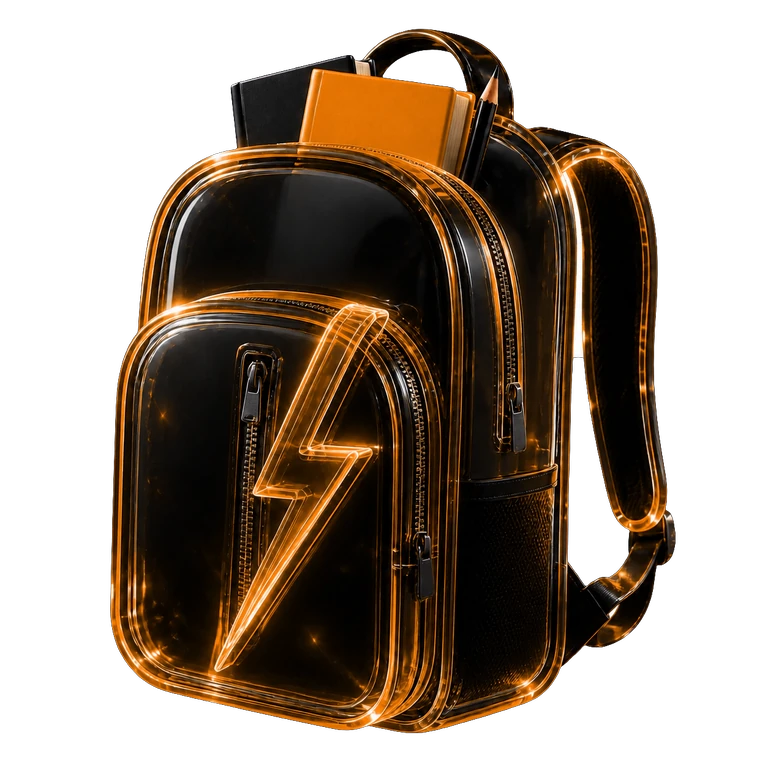
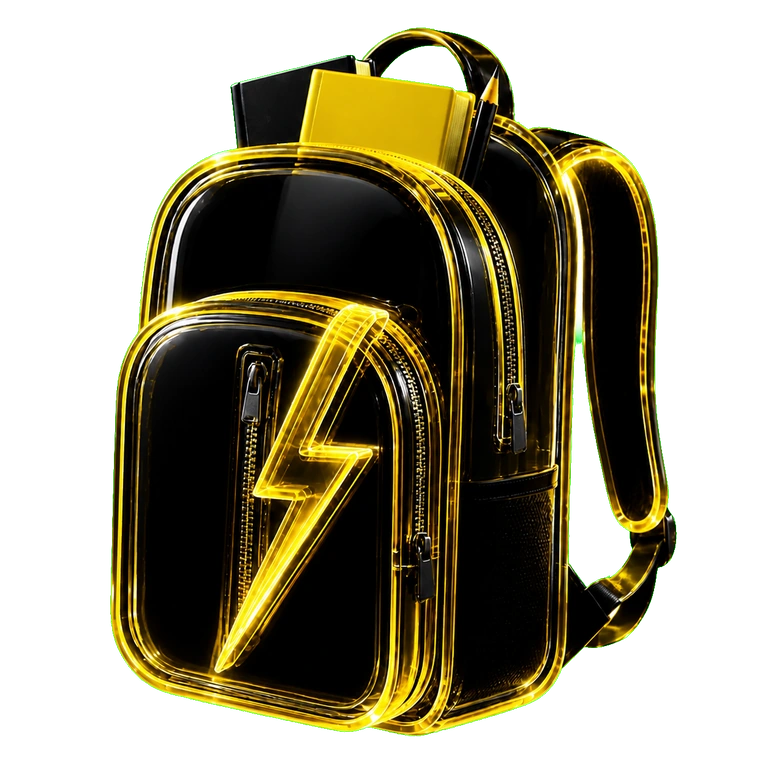
Fix bonus palette and acrylic brand mark

Changed region(s): [[0.125, 0.0312, 0.9062, 0.9688], [0.375, 0.8125, 0.4375, 0.875], [0.3125, 0.0938, 0.3438, 0.125]]

diff --git a/src/campaign/campaign.css b/src/campaign/campaign.css
@@ -1246,33 +1246,12 @@ svg {
   position: absolute;
   z-index: 1;
   top: 52%;
-  right: -3%;
-  display: grid;
-  place-items: center;
-  width: min(43%, 300px);
-  aspect-ratio: 1;
-  clip-path: polygon(17% 0, 83% 0, 100% 17%, 100% 83%, 83% 100%, 17% 100%, 0 83%, 0 17%);
-  background: linear-gradient(145deg, rgba(255, 255, 255, 0.92), #fff200 15%, #e7ab00 54%, #6f4900);
-  filter: drop-shadow(0 24px 24px rgba(54, 31, 0, 0.5)) drop-shadow(0 0 12px rgba(255, 242, 0, 0.52));
-  transform: translateY(-50%) rotate(-7deg);
-}
-
-.campaign-bonus-welcome-emblem::before {
-  position: absolute;
-  z-index: -1;
-  inset: 3px;
-  clip-path: inherit;
-  background:
-    linear-gradient(145deg, rgba(255, 255, 255, 0.3), transparent 30%),
-    linear-gradient(135deg, rgba(24, 23, 20, 0.9), rgba(111, 73, 0, 0.72));
-  content: "";
-}
-
-.campaign-bonus-welcome-emblem img {
-  width: 68%;
-  height: 68%;
-  filter: drop-shadow(0 10px 12px rgba(0, 0, 0, 0.58));
-  transform: rotate(7deg);
+  right: -1%;
+  width: min(46%, 340px);
+  height: auto;
+  object-fit: contain;
+  filter: drop-shadow(0 22px 22px rgba(54, 31, 0, 0.48)) drop-shadow(0 0 10px rgba(255, 242, 0, 0.48));
+  transform: translateY(-50%) rotate(-5deg);
 }
 
 .campaign-bonus--friend {

diff --git a/src/campaign/CampaignApp.jsx b/src/campaign/CampaignApp.jsx
@@ -429,12 +429,10 @@ export default function CampaignApp() {
           <div className="campaign-bonus-field">
             <article className="campaign-bonus campaign-bonus--welcome campaign-plate">
               <div className="campaign-bonus-welcome-brand" aria-hidden="true">
-                <img src={asset('favicon.svg')} alt="" width="32" height="32" />
+                <img src={asset('campaign/meta4pro-acrylic-mark-gold.webp')} alt="" width="32" height="32" />
                 <span>META<b>4</b>PRO</span>
               </div>
-              <div className="campaign-bonus-welcome-emblem" aria-hidden="true">
-                <img src={asset('favicon.svg')} alt="" width="160" height="160" loading="lazy" decoding="async" />
-              </div>
+              <img className="campaign-bonus-welcome-emblem" src={asset('campaign/meta4pro-acrylic-mark-gold.webp')} alt="" width="768" height="768" loading="lazy" decoding="async" />
               <strong>500 ₽</strong>
               <div><h3>Новым гостям</h3><p>Бонус на игровой баланс при первом посещении.</p></div>
             </article>
